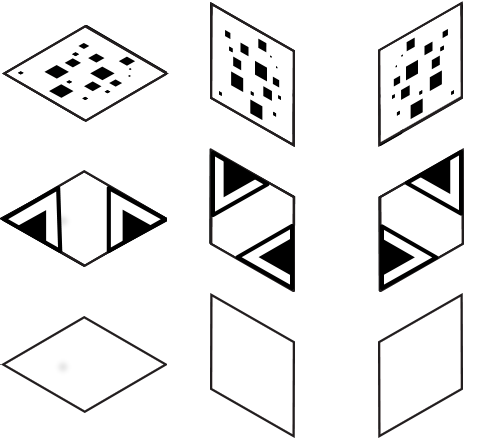
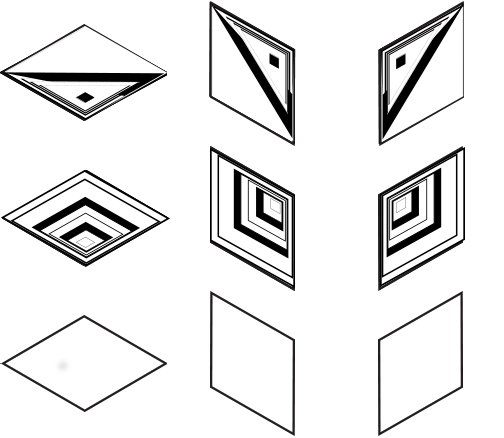
Animations can now have more than 1 color

diff --git a/Crystallography/Crystallography/CardCrystallonEntity.cs b/Crystallography/Crystallography/CardCrystallonEntity.cs
@@ -18,7 +18,11 @@ namespace Crystallography
 														new Vector2(40.5f*CARD_SCALAR,-31.5f*CARD_SCALAR) };
 		protected readonly static float DEFAULT_SPEED = 0.3f;
 		
+		protected readonly static BlendFunc animBlend = new BlendFunc(BlendFuncMode.Add, BlendFuncFactor.DstAlpha, BlendFuncFactor.OneMinusSrcAlpha);
+		
+		
 		protected SpriteTile _anim;
+//		protected SpriteTile _mask;
 //		protected SpriteTile _glowSprite;
 		protected int _glowIndex;
 		
@@ -156,28 +160,32 @@ namespace Crystallography
 		}
 		
 		public void setAnim( SpriteTile anim, int pStart, int pEnd ) {
-			
-			_anim = new SpriteTile( anim.TextureInfo, anim.TileIndex2D );
-			_anim = new SpriteTile( anim.TextureInfo, anim.TileIndex2D );
-			_anim.Scale /= 3.0f;
-			_anim.Pivot = this.getNode().Pivot;
-			_anim.BlendMode.BlendFunc = new BlendFunc(BlendFuncMode.ReverseSubtract, BlendFuncFactor.One, BlendFuncFactor.OneMinusSrcColor);
-			_anim.BlendMode.Enabled = true;
 			if (pStart == pEnd) {
 				_anim = null;
-			} else {
-				_anim.RunAction( new Support.AnimationAction(_anim, pStart, pEnd, 1.0f, true) );
+				return;
 			}
-			if (_anim != null) {
-//				if (getOrientation() == 1) {
-//					_anim.Rotation = new Vector2(1f,0f);
-//				} else if (getOrientation() == 2) {
-//					_anim.Rotation = new Vector2(0.515038074910054f, -0.857167300702112f);
-//				} else {
-//					_anim.Rotation = new Vector2(0.484809620246337f, 0.874619707139396f);
-//				}
-				this.getNode().AddChild(_anim);
-			}
+			_anim = new SpriteTile( anim.TextureInfo, anim.TileIndex2D );
+//			_mask = new SpriteTile( QAnimation.Instance.maskTiles.TextureInfo, _orientationIndex);
+			_anim.Scale /= 4.0f;
+			_anim.Pivot = this.getNode().Pivot;
+//			_mask.Pivot = this.getNode().Pivot;
+//			_mask.BlendMode.BlendFunc = new BlendFunc(BlendFuncMode.Add, BlendFuncFactor.DstColor, BlendFuncFactor.One);
+//			_anim.BlendMode.BlendFunc = new BlendFunc(BlendFuncMode.ReverseSubtract, BlendFuncFactor.One, BlendFuncFactor.OneMinusSrcColor);
+//			_anim.BlendMode.BlendFunc = new BlendFunc(BlendFuncMode.Add, BlendFuncFactor.DstAlpha, BlendFuncFactor.OneMinusSrcAlpha);
+			_anim.BlendMode.BlendFunc = animBlend;
+			_anim.BlendMode.Enabled = true;
+			_anim.RunAction( new Support.AnimationAction(_anim, pStart, pEnd, 1.0f, true) );
+
+			//			if (getOrientation() == 1) {
+//				_anim.Rotation = new Vector2(1f,0f);
+//			} else if (getOrientation() == 2) {
+//				_anim.Rotation = new Vector2(0.515038074910054f, -0.857167300702112f);
+//			} else {
+//				_anim.Rotation = new Vector2(0.484809620246337f, 0.874619707139396f);
+//			}
+			this.getNode().AddChild(_anim);
+//			this.getNode().AddChild(_mask);
+//			_mask.AddChild(_anim);
 		}
 		
 		public void resetCountdown() {

diff --git a/Crystallography/Crystallography/QAnimation.cs b/Crystallography/Crystallography/QAnimation.cs
@@ -8,6 +8,7 @@ namespace Crystallography
 	{
 		public static int[,] palette = new int[3,2];
 		public static SpriteTile animTiles;
+//		public SpriteTile maskTiles;
 		
 		protected static AbstractQuality _instance;
 		
@@ -36,6 +37,7 @@ namespace Crystallography
 		public QAnimation () : base() {
 			_name = "QAnimation";
 			setPalette();
+//			maskTiles = Support.TiledSpriteFromFile("Application/assets/animation/masks.png", 3, 1);
 		}
 		
 		// OVERRIDES -------------------------------------------------------------
@@ -65,6 +67,7 @@ namespace Crystallography
 		public void setPalette () {
 //			setPalette( "Application/assets/animation/leftFall/leftFall.png", 6, 5, 16, 16, 0, 15, 16, 25);
 			setPalette( "Application/assets/animation/char_anims.png", 3, 2, 0, 0, 0, 3, 3, 6);
+//			setPalette( "Application/assets/animation/ball_anim.png", 5, 1, 0, 0, 0, 5, 0, 5);
 		}
 		
 		/// <summary>
